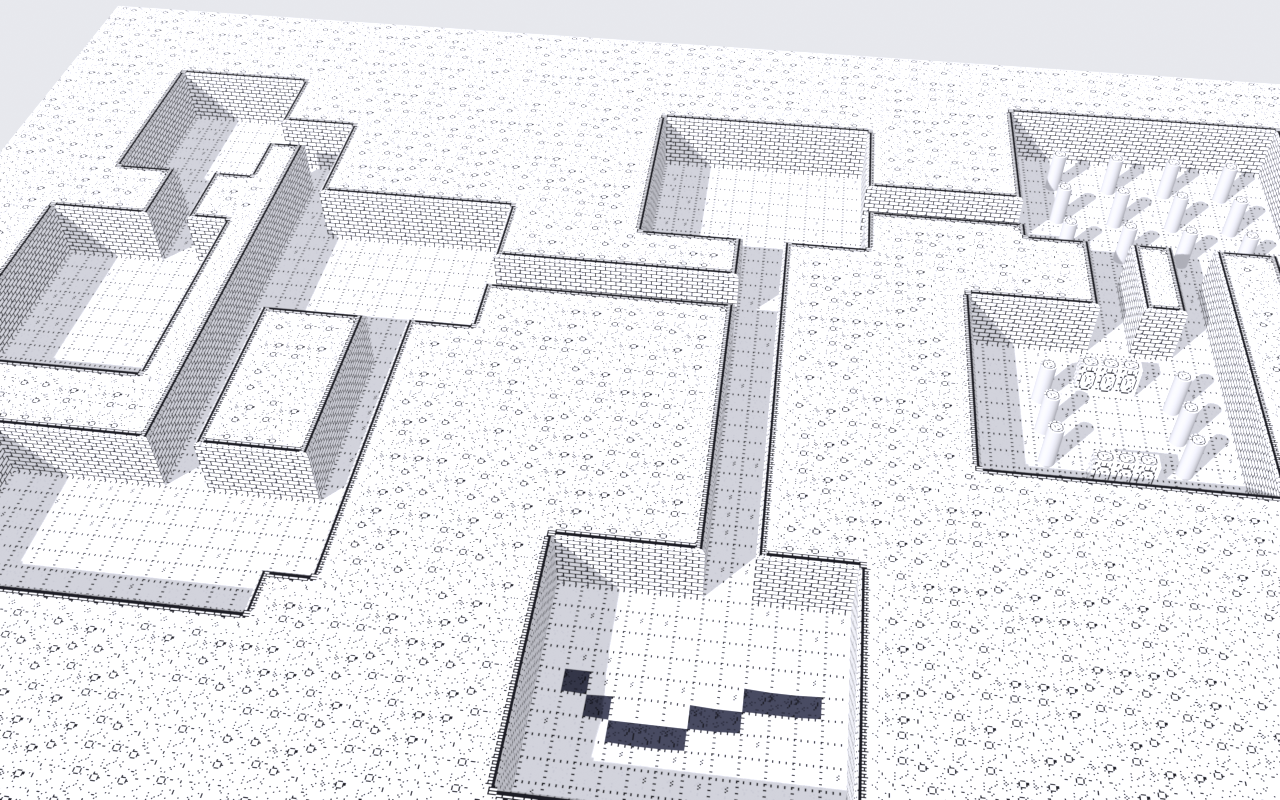
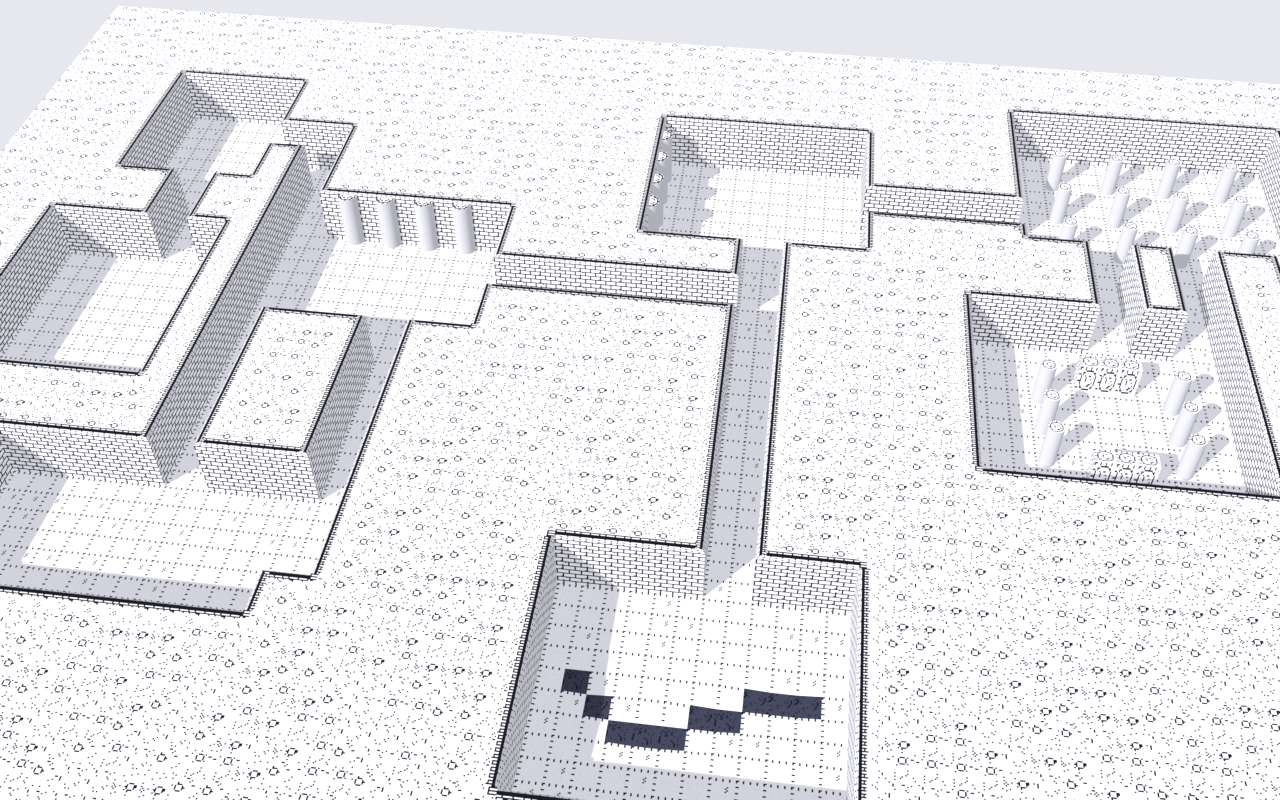
Tile map: apses (half columns built into walls) from prop_kinds; ink tileset apses

diff --git a/levelArchitect_v2.py b/levelArchitect_v2.py
@@ -16821,6 +16821,27 @@ def _tilemap_tileset(spec, tile):
     return lut
 
 
+def _tilemap_prop_kinds(spec, tile):
+    """{tile bytes: kind} for the tiles a tileset's json lists under `prop_kinds` ({tile index: "apse"}); {} without any."""
+    if not spec:
+        return {}
+    path = bpy.path.abspath(spec["image"])
+    jp = bpy.path.abspath(spec.get("json") or os.path.splitext(path)[0] + ".json")
+    with open(jp) as f:
+        meta = json.load(f)
+    kinds = meta.get("prop_kinds") or {}
+    if not kinds:
+        return {}
+    sheet = _plan_image_pixels(path=path)
+    t, cols, margin, gutter = int(meta.get("tile", tile)), int(meta["cols"]), int(meta.get("margin", 0)), int(meta.get("gutter", 0))
+    out = {}
+    for idx, kind in kinds.items():
+        i = int(idx)
+        y, x = margin + (i // cols) * (t + gutter), margin + (i % cols) * (t + gutter)
+        out[sheet[y:y + t, x:x + t, :3].round().astype("uint8").tobytes()] = kind
+    return out
+
+
 def _tilemap_side(spec, tile):
     """(sheet pixels, x, y) of the tile a tileset names `wall_side` (the picture wall faces show instead of the map's own tile), or None."""
     if not spec:
@@ -16992,6 +17013,17 @@ def _build_tilemap(p):
     roles = tilemap_analyze(rgb, tile, p["green"], p["rough"], p.get("roles"), _tilemap_tileset(p.get("tileset"), tile))
     roles, props = _tilemap_props(roles, p)
     ty, tx = roles.shape
+    kinds_lut = _tilemap_prop_kinds(p.get("tileset"), tile)
+    for pr in props:                                            # a tileset can name the kind of a prop tile (an apse: a half column built into a wall, facing the room)
+        if len(pr["tiles"]) == 1:
+            i, j = pr["tiles"][0]
+            kind = kinds_lut.get(rgb[j * tile:(j + 1) * tile, i * tile:(i + 1) * tile, :3].round().astype("uint8").tobytes())
+            if kind:
+                pr["kind"] = kind
+                if kind == "apse":
+                    wall = [d for d, (di, dj) in {"n": (0, -1), "e": (1, 0), "s": (0, 1), "w": (-1, 0)}.items()
+                            if 0 <= i + di < tx and 0 <= j + dj < ty and roles[j + dj, i + di] == 2]
+                    pr["facing"] = wall[0] if wall else "n"          # the side the wall is on
     if ty * tx > 90000:
         raise PlanError("the map has %d tiles (at most 90000)" % (ty * tx))
     iw, ih = rgb.shape[1], rgb.shape[0]
@@ -17170,6 +17202,39 @@ def _plan_build_tilemap(context, node, world, seed, path):
         h = float(p["prop_height"]) * (0.55 if pr["kind"] == "bush" else 1.0) * tm
         u0, u1 = x0 * p["tile"] / iw, (x1 + 1) * p["tile"] / iw
         v1, v0 = 1.0 - y0 * p["tile"] / ih, 1.0 - (y1 + 1) * p["tile"] / ih
+        if pr["kind"] == "apse":                                  # a half column against a wall: a semicircular shaft bulging into the room, its flat side on the wall
+            cx_, cy_ = (bx0 + bx1) / 2.0, (by0 + by1) / 2.0
+            rad = tm * 0.5
+            wx, wy = {"n": (0.0, 1.0), "s": (0.0, -1.0), "e": (1.0, 0.0), "w": (-1.0, 0.0)}[pr.get("facing", "n")]
+            ctr = (cx_ + wx * tm / 2.0, cy_ + wy * tm / 2.0)               # middle of the wall edge of the tile
+            ux, uy = -wx, -wy                                              # into the room
+            vx, vy = -wy, wx                                               # along the wall
+            h = float(p["stone"]) * 0.97
+            n_arc = 10
+            ring0 = [(ctr[0] + rad * (math.cos(math.pi * i / n_arc) * vx + math.sin(math.pi * i / n_arc) * ux),
+                      ctr[1] + rad * (math.cos(math.pi * i / n_arc) * vy + math.sin(math.pi * i / n_arc) * uy), 0.0) for i in range(n_arc + 1)]
+            ring1 = [(x_, y_, h) for x_, y_, _z in ring0]
+            v_ = ring0 + ring1
+            m_ = n_arc + 1
+            quads = [(i, i + 1, m_ + i + 1, m_ + i) for i in range(n_arc)] + [tuple(range(m_, 2 * m_))]
+            tu0, tv0, tu1, tv1 = (x0 * p["tile"] / iw), 1.0 - (y1 + 1) * p["tile"] / ih, (x0 + 1) * p["tile"] / iw, 1.0 - y0 * p["tile"] / ih
+            cap_uv = [(tu0 + (px_ - (cx_ - tm / 2.0)) / tm * (tu1 - tu0), tv0 + (py_ - (cy_ - tm / 2.0)) / tm * (tv1 - tv0)) for px_, py_, _z in ring1]
+            uvs_ = [(tu0, tv0)] * (4 * n_arc) + cap_uv
+            pm = bpy.data.meshes.new("TilemapProp_%s_%03d" % (node["id"], k))
+            pm.from_pydata(v_, [], quads)
+            uvl = pm.uv_layers.new(name="UVMap")
+            uvl.data.foreach_set("uv", [c for uv_ in uvs_ for c in uv_])
+            pm.update()
+            pm.materials.append(_tilemap_stone_material())
+            pm.materials.append(mat)
+            for poly_ in pm.polygons:
+                poly_.material_index = 1 if poly_.index == n_arc else 0
+                poly_.use_smooth = poly_.index != n_arc
+            pobj = bpy.data.objects.new(pm.name, pm)
+            pobj["gla_prop"] = json.dumps({"kind": "apse", "rect": pr["rect"], "facing": pr.get("facing", "n")})
+            context.scene.collection.objects.link(pobj)
+            made.append(pobj)
+            continue
         if pr["kind"] == "pillar":                                # a round pillar: a plain stone shaft and a cap that shows the tile's own picture
             cx, cy, rad, sides_ = (bx0 + bx1) / 2.0, (by0 + by1) / 2.0, (bx1 - bx0) / 2.0, 14
             h = float(p["prop_height"]) * 1.3 * tm

diff --git a/tools/make_ink_tileset.py b/tools/make_ink_tileset.py
@@ -130,6 +130,19 @@ def pillar_tile(seed):
     return img
 
 
+def apse_tile(side, seed=0):
+    """A half column built into a wall (an apse) seen from above: a semicircle of brick rings bulging out of the wall at `side` (n, e, s, w) on a floor tile."""
+    img = floor_tile(seed)
+    ys, xs = np.mgrid[0:T, 0:T]
+    d = np.hypot(xs - 7.5, ys + 0.5)                              # centred on the top edge: the wall is at the north
+    img[d < 7.6] = PAPER
+    img[(d >= 6.1) & (d < 7.6)] = INK
+    img[(d >= 3.6) & (d < 4.5)] = INK
+    ang = np.arctan2(ys + 0.5, xs - 7.5)
+    img[(d >= 4.5) & (d < 6.1) & (np.abs(np.sin(ang * 5.0)) < 0.18)] = INK      # radial joints between the bricks of the ring
+    return np.rot90(img, k={"n": 0, "e": 3, "s": 2, "w": 1}[side]).copy()
+
+
 def chasm_tile(seed):
     img = np.empty((T, T, 3), np.uint8)
     img[:] = (0x3a, 0x3c, 0x4e)
@@ -159,6 +172,10 @@ for _d in range(4):
 TILES.append(("pillar", pillar_tile(1), "prop"))
 for i in range(2):
     TILES.append(("chasm", chasm_tile(i), "water"))
+PROP_KINDS = {}
+for _side in ("n", "e", "s", "w"):
+    PROP_KINDS[len(TILES)] = "apse"
+    TILES.append(("apse_" + _side, apse_tile(_side), "prop"))
 COLS = 8
 IDX = {}
 for _i, (_k, _img, _r) in enumerate(TILES):
@@ -213,6 +230,16 @@ def make_dungeon(w=72, h=54, seed=4):
         yy = (y0 + y1) // 2
         for x in range(x0 + 1, x1 - 1):
             k[yy + int(round(np.sin(x * 0.7))), x] = "chasm"
+    free = [b for b in rooms if b not in (big[0], big[1] if len(big) > 1 else None, big[2] if len(big) > 2 else None)]      # apses: half columns along a wall of two other rooms
+    for n_, (x0, y0, x1, y1) in enumerate(free[:2]):
+        if n_ == 0:
+            for x in range(x0 + 1, x1 - 1, 2):
+                if k[y0, x] == "floor":
+                    k[y0, x] = "apse_n"
+        else:
+            for y in range(y0 + 1, y1 - 1, 2):
+                if k[y, x0] == "floor":
+                    k[y, x0] = "apse_w"
     rock = k == "rock"                                            # the rock tiles next to floor (4-neighbour) become wall
     near = np.zeros_like(rock)
     solid = ~rock
@@ -272,7 +299,7 @@ if __name__ == "__main__":
     d = os.path.join(ROOT, "docs", "examples")
     write_png(os.path.join(d, "ink_tileset.png"), sheet())
     with open(os.path.join(d, "ink_tileset.json"), "w") as f:
-        json.dump({"tile": T, "cols": COLS, "roles": [t[2] for t in TILES], "names": [t[0] for t in TILES], "wall_side": WALL_SIDE,
+        json.dump({"tile": T, "cols": COLS, "roles": [t[2] for t in TILES], "names": [t[0] for t in TILES], "wall_side": WALL_SIDE, "prop_kinds": {str(k): v for k, v in PROP_KINDS.items()},
                    "walltiles": {"first": WALL_FIRST, "note": "15 side-mask variants (N=1 E=2 S=4 W=8, mask 1..15) then 4 corner variants NE SE SW NW"}}, f, indent=1)
     write_png(os.path.join(d, "ink_map.png"), render_map(to_ids(make_dungeon(seed=seed))))
     print("wrote ink_tileset.png, ink_tileset.json and ink_map.png in", d)

diff --git a/tests/blender_headless_test.py b/tests/blender_headless_test.py
@@ -5783,6 +5783,23 @@ _img = _sd[0].data.materials[0].node_tree.nodes["Image Texture"].image if _sd el
 check("Tile map: wall_side builds an atlas picture (map + tileset sheet) as the texture", len(_sd) == 1 and _img is not None and _img.name.startswith("LA_TilemapAtlas_") and _img.size[1] == 64 + 16 and _img.size[0] == 64, str(_img.size[:] if _img else None))
 _uvs = [c for d_ in _sd[0].data.uv_layers[0].data for c in d_.uv]
 check("Tile map: with an atlas the UVs stay inside 0..1", all(-1e-4 <= c <= 1 + 1e-4 for c in _uvs))
+# an apse: a tile the tileset lists under prop_kinds becomes a half column that faces away from the wall it stands against
+_ap_ts = _np2.zeros((16, 48, 3)); _ap_ts[:, :16] = (200, 200, 205); _ap_ts[:, 16:32] = (150, 60, 60); _ap_ts[:, 32:] = (30, 30, 40)
+_apt_im = bpy.data.images.new("gla_apt_test.png", 48, 16); _apt_px = _np2.ones((16, 48, 4)); _apt_px[..., :3] = _ap_ts[::-1] / 255.0
+_apt_im.pixels.foreach_set(_apt_px.ravel().astype(_np2.float32)); _apt_path = os.path.join(bpy.app.tempdir, "gla_apt_test.png")
+_apt_im.filepath_raw = _apt_path; _apt_im.file_format = 'PNG'; _apt_im.save()
+with open(os.path.join(bpy.app.tempdir, "gla_apt_test.json"), "w") as _f:
+    json.dump({"tile": 16, "cols": 3, "roles": ["floor", "prop", "stone"], "prop_kinds": {"1": "apse"}}, _f)
+_apm = _np2.zeros((80, 80, 3)); _apm[:] = (200, 200, 205); _apm[:16, :] = (30, 30, 40); _apm[16:32, 32:48] = (150, 60, 60)      # a wall along the top, an apse just below it
+_ap_im = bpy.data.images.new("gla_apm_test.png", 80, 80); _ap_px = _np2.ones((80, 80, 4)); _ap_px[..., :3] = _apm[::-1] / 255.0
+_ap_im.pixels.foreach_set(_ap_px.ravel().astype(_np2.float32)); _apm_path = os.path.join(bpy.app.tempdir, "gla_apm_test.png")
+_ap_im.filepath_raw = _apm_path; _ap_im.file_format = 'PNG'; _ap_im.save()
+_apq = {**addon.PLAN_TILEMAP_DEFAULTS, "image": _apm_path, "tileset": {"image": _apt_path, "json": os.path.join(bpy.app.tempdir, "gla_apt_test.json")}}
+_aplay = addon._build_tilemap(_apq)[2]
+check("Tile map: a prop tile named apse in prop_kinds is an apse facing away from its wall (wall on the north side)", len(_aplay["props"]) == 1 and _aplay["props"][0]["kind"] == "apse" and _aplay["props"][0].get("facing") == "n", str(_aplay["props"]))
+addon.plan_build(bpy.context, addon.plan_node("tm_apse", "building", "tilemap", params=_apq))
+_apo = [o for o in bpy.data.objects if o.type == "MESH" and o.get("gla_prop") and json.loads(o["gla_prop"])["kind"] == "apse" and o.get("gla_tilemap_id") == "tm_apse"]
+check("Tile map: the apse is its own half-cylinder object with a stone shaft and a picture cap", len(_apo) == 1 and len(_apo[0].data.polygons) == 11 and len(_apo[0].data.materials) == 2, str([len(o.data.polygons) for o in _apo]))
 # the game package of a tile-map level: floor tiles as exact walk rectangles, entrance and exit on the floor, props and trees listed
 _pk_root = addon.plan_from_tilemap_picture(_tm_path, "tm_pkg", 16, 1.0)
 addon.plan_build(bpy.context, _pk_root)

diff --git a/CHANGELOG.md b/CHANGELOG.md
@@ -5,7 +5,7 @@ reproduced exactly from its settings (see **Debug: Last Generation Params** in t
 
 ## Unreleased — terrain: look, relief, water and ground cover; tile maps
 
-- **Level from a tile map** (`tilemap` building, **Level from Tile Map...** button): a picture of a whole level made of square tiles (as in 16-bit action games) becomes a 3D level. Every tile gets a role from its colour and texture — floor, canopy (green mass) or stone (grey, rough) — `tilemap_analyze`, numpy only; single tiles can be overridden with `roles: {"x,y": 0|1|2}`. Floor stays flat, canopy and stone are raised (`canopy`, `stone` heights), walls are built where heights differ, and the picture itself is the texture with nearest filtering, so the pixel look is kept. `tile` (px) and `tile_m` (metres per tile) set the scale. **Tilesets and a modern look**: a `tileset` (sheet + roles JSON) matches map tiles exactly and adds a fourth role, **water**; the ground is one smooth surface (canopy swells into rounded mounds, banks slope into water), stone tiles are walls in tile-high bands with a bevelled top (`smooth: false` for plain blocks). `tools/make_tileset.py` draws an original 16-px tileset and a demo map. **Objects, trees, walk check**: a small clump of stone tiles standing alone on the floor (≤ `prop_max` tiles, ≤ 3 x 3) is a **prop** (role 4, `statue`), a small canopy clump is a `bush`; each prop is its own object (a short box carrying its sprite, `gla_prop` = {kind, rect}) with a floor tile showing under it, ready to be swapped for a model. **Canopy becomes real 3D trees** (`trees`, `tree_spacing`): round and cone trees on a jittered lattice well inside the forest, the canopy ground only a low mound (`canopy` 0.7). `tilemap_walk_check(roles)` floods the floor (canopy, stone, water and props block) from a start tile or the biggest region and reports regions, the reached share and the pockets. Tileset sheets may have a border and lines between tiles (`margin`, `gutter`). **Wall tiles with a partial brick top** (ink tileset): 15 side-mask variants (bricks only along the sides that face open ground, N=1 E=2 S=4 W=8) plus 4 corner variants, the rest stipple rock, like the walls of a hand-inked plan; a tileset can name a `wall_side` tile that the wall faces show instead of the map's own tile (the map and the sheet then become one atlas picture, `LA_TilemapAtlas_<id>`); `walltiles.first` in the json tells generators where the variants start. The re-skin simplifies the old layouts (1-tile spurs and dead-end nubs removed) before choosing tiles. **Re-skin into the ink style** (`tools/reskin_map.py` with `ink_tileset`): forest and stone become solid rock, rock beside open ground brick wall, water a chasm, small loose bits of the old map (statues, bushes) pillars and tiny floor pockets wall; several old sheets can be given comma separated. **Ink dungeon from scratch** (`tools/make_ink_tileset.py`): an original ink-on-paper tileset (paper floors with a dotted grid, outlined brick walls, stippled rock, pillars, chasm) and a generator that carves rooms and corridors from rock, fills a hall with pillars, rings another with pillars and cuts a chasm. Tiles a tileset marks `prop` become props: a single one is a **pillar** (a cylinder with a plain stone shaft and the tile's picture as its cap), several together an object. **Autotiles**: the demo tileset (`tools/make_tileset.py`) now carries 3 x 16 autotile variants (dirt over grass, water over sand, canopy over grass; the variant follows which of the four neighbours are the same kind, bits N=1 E=2 S=4 W=8) with rounded wobbly edges, foam and shadow rims, so coasts, forest edges and paths join up; `tileset_demo.json` lists them under `autotiles`. **Fix**: round tree crowns had zero-width pole quads that the glTF export dropped (hollow crowns in Godot); they now stop short of the poles and end in flat caps. **Re-skin** (`tools/reskin_map.py`): every tile of a map is looked up in its old tileset, takes its role and is replaced by a same-role tile of a new tileset, so one layout can wear any art; choose the new tiles per role (`floor=dirt,grass stone=brick`). **Godot demo** (`examples/godot_tilemap_demo`, `tools/export_demo_package.py`): a small Godot 4 project loads a tile-map package and lets you walk it with WASD; headless `--selftest` checks entrance, exit, props and trees against the walk rectangles. **Game package**: **Export Tile Map Package (glb + json)** writes the level (ground, props, trees) as glTF plus a `gla-export/1` JSON — the floor tiles merged into exact walkable rectangles, the entrance at the start of the biggest floor region, the exit at the tile farthest from it by walking, props (kind, position) and tree positions, and the walk check; `tilemap_game_package(data)` builds it from the `gla_tilemap` custom property the ground object carries. Limits: colour decides the roles without a tileset (green machinery reads as forest), no game export yet. The tool works with any tile map picture; none from a commercial game is shipped.
+- **Level from a tile map** (`tilemap` building, **Level from Tile Map...** button): a picture of a whole level made of square tiles (as in 16-bit action games) becomes a 3D level. Every tile gets a role from its colour and texture — floor, canopy (green mass) or stone (grey, rough) — `tilemap_analyze`, numpy only; single tiles can be overridden with `roles: {"x,y": 0|1|2}`. Floor stays flat, canopy and stone are raised (`canopy`, `stone` heights), walls are built where heights differ, and the picture itself is the texture with nearest filtering, so the pixel look is kept. `tile` (px) and `tile_m` (metres per tile) set the scale. **Tilesets and a modern look**: a `tileset` (sheet + roles JSON) matches map tiles exactly and adds a fourth role, **water**; the ground is one smooth surface (canopy swells into rounded mounds, banks slope into water), stone tiles are walls in tile-high bands with a bevelled top (`smooth: false` for plain blocks). `tools/make_tileset.py` draws an original 16-px tileset and a demo map. **Objects, trees, walk check**: a small clump of stone tiles standing alone on the floor (≤ `prop_max` tiles, ≤ 3 x 3) is a **prop** (role 4, `statue`), a small canopy clump is a `bush`; each prop is its own object (a short box carrying its sprite, `gla_prop` = {kind, rect}) with a floor tile showing under it, ready to be swapped for a model. **Canopy becomes real 3D trees** (`trees`, `tree_spacing`): round and cone trees on a jittered lattice well inside the forest, the canopy ground only a low mound (`canopy` 0.7). `tilemap_walk_check(roles)` floods the floor (canopy, stone, water and props block) from a start tile or the biggest region and reports regions, the reached share and the pockets. Tileset sheets may have a border and lines between tiles (`margin`, `gutter`). **Apses**: a tileset lists tiles under `prop_kinds` (`{index: "apse"}`); such a prop tile becomes a half column built into the wall it stands against (`facing` = the wall side found from the stone neighbours): a semicircular stone shaft up to wall height whose flat top shows the tile's own picture; the ink tileset has four (wall north, east, south, west) and the dungeon generator lines two rooms with them. **Wall tiles with a partial brick top** (ink tileset): 15 side-mask variants (bricks only along the sides that face open ground, N=1 E=2 S=4 W=8) plus 4 corner variants, the rest stipple rock, like the walls of a hand-inked plan; a tileset can name a `wall_side` tile that the wall faces show instead of the map's own tile (the map and the sheet then become one atlas picture, `LA_TilemapAtlas_<id>`); `walltiles.first` in the json tells generators where the variants start. The re-skin simplifies the old layouts (1-tile spurs and dead-end nubs removed) before choosing tiles. **Re-skin into the ink style** (`tools/reskin_map.py` with `ink_tileset`): forest and stone become solid rock, rock beside open ground brick wall, water a chasm, small loose bits of the old map (statues, bushes) pillars and tiny floor pockets wall; several old sheets can be given comma separated. **Ink dungeon from scratch** (`tools/make_ink_tileset.py`): an original ink-on-paper tileset (paper floors with a dotted grid, outlined brick walls, stippled rock, pillars, chasm) and a generator that carves rooms and corridors from rock, fills a hall with pillars, rings another with pillars and cuts a chasm. Tiles a tileset marks `prop` become props: a single one is a **pillar** (a cylinder with a plain stone shaft and the tile's picture as its cap), several together an object. **Autotiles**: the demo tileset (`tools/make_tileset.py`) now carries 3 x 16 autotile variants (dirt over grass, water over sand, canopy over grass; the variant follows which of the four neighbours are the same kind, bits N=1 E=2 S=4 W=8) with rounded wobbly edges, foam and shadow rims, so coasts, forest edges and paths join up; `tileset_demo.json` lists them under `autotiles`. **Fix**: round tree crowns had zero-width pole quads that the glTF export dropped (hollow crowns in Godot); they now stop short of the poles and end in flat caps. **Re-skin** (`tools/reskin_map.py`): every tile of a map is looked up in its old tileset, takes its role and is replaced by a same-role tile of a new tileset, so one layout can wear any art; choose the new tiles per role (`floor=dirt,grass stone=brick`). **Godot demo** (`examples/godot_tilemap_demo`, `tools/export_demo_package.py`): a small Godot 4 project loads a tile-map package and lets you walk it with WASD; headless `--selftest` checks entrance, exit, props and trees against the walk rectangles. **Game package**: **Export Tile Map Package (glb + json)** writes the level (ground, props, trees) as glTF plus a `gla-export/1` JSON — the floor tiles merged into exact walkable rectangles, the entrance at the start of the biggest floor region, the exit at the tile farthest from it by walking, props (kind, position) and tree positions, and the walk check; `tilemap_game_package(data)` builds it from the `gla_tilemap` custom property the ground object carries. Limits: colour decides the roles without a tileset (green machinery reads as forest), no game export yet. The tool works with any tile map picture; none from a commercial game is shipped.
 - **Rapids**: a river's bed steepness (0-9) rides in the whole part of the ribbon's u; the river shader turns steep stretches into white water across the whole width.
 - **Ground cover**: scatter kinds `grass` (tufts of blades, up to 900/ha) and `flower` (five colours) in meadow, forest, tundra, mountain and island biomes (capped at 6000 per kind); rules may carry `wet` (0-1) so trees prefer low, damp ground near water.
 - **Water**: lakes are a sheet only over the wet grid cells with a baked `depth` attribute, shaded from turquoise shallows to deep blue with growing opacity, shore foam and ripples (`LA_Lake`); rivers get edge foam and flow streaks from their ribbon UVs (`LA_River`). Shader only.

diff --git a/docs/USER_GUIDE.md b/docs/USER_GUIDE.md
@@ -311,7 +311,7 @@ In a plan, `params.roles` = `{"x,y": 0|1|2}` overrides single tiles, and `params
 **For a game**: **Export Tile Map Package (glb + json)** (Plans panel) exports the built level as glTF plus a JSON in the same `gla-export/1` format as the other packages: the floor tiles as exact walkable rectangles, an entrance, an exit (the floor tile farthest from the entrance by walking), the props and the tree positions.
 A fourth role, **water**, sits a little lower and the ground slopes into it; green masses swell into rounded mounds (`params.smooth: false` makes everything flat-topped blocks).
 With a **tileset** (`params.tileset` = `{"image": sheet.png, "json": roles.json}`; the JSON has `tile`, `cols` and a `roles` list, one of floor / canopy / stone / water / prop per tile in sheet order; optional `margin` and `gutter` in px for sheets with a border and lines between the tiles) every map tile that equals a tileset tile pixel for pixel takes that tile's role; others are read from colour and texture.
-`tools/make_tileset.py` draws an original example tileset and map. A tileset JSON may name a **`wall_side`** tile: the wall faces then show that tile instead of the map's own one (the map and the sheet are put in one atlas picture), so a wall tile can have a bricks-only-on-the-edge top and still brick faces. `tools/make_ink_tileset.py` draws an ink-on-paper dungeon tileset and generates a dungeon map (rooms, corridors, pillar halls, a chasm); a tile with the role `prop` in a tileset's JSON becomes a prop (a single tile a pillar). `tools/reskin_map.py` re-skins a map: it replaces every tile by a tile of the same role from another tileset, so the same layout can wear different art. The maps and tilesets of commercial games are not included; use pictures you are allowed to use.
+`tools/make_tileset.py` draws an original example tileset and map. A tileset JSON may also list **`prop_kinds`** (`{"12": "apse"}`): a prop tile of kind `apse` becomes a half column against the neighbouring wall, bulging into the room. A tileset JSON may name a **`wall_side`** tile: the wall faces then show that tile instead of the map's own one (the map and the sheet are put in one atlas picture), so a wall tile can have a bricks-only-on-the-edge top and still brick faces. `tools/make_ink_tileset.py` draws an ink-on-paper dungeon tileset and generates a dungeon map (rooms, corridors, pillar halls, a chasm); a tile with the role `prop` in a tileset's JSON becomes a prop (a single tile a pillar). `tools/reskin_map.py` re-skins a map: it replaces every tile by a tile of the same role from another tileset, so the same layout can wear different art. The maps and tilesets of commercial games are not included; use pictures you are allowed to use.
 
 ### Walled towns
 
